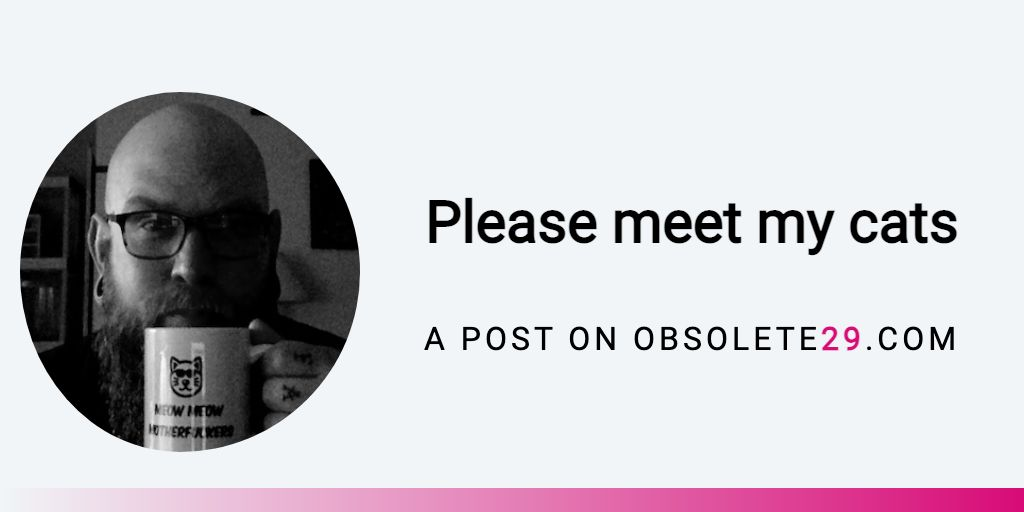
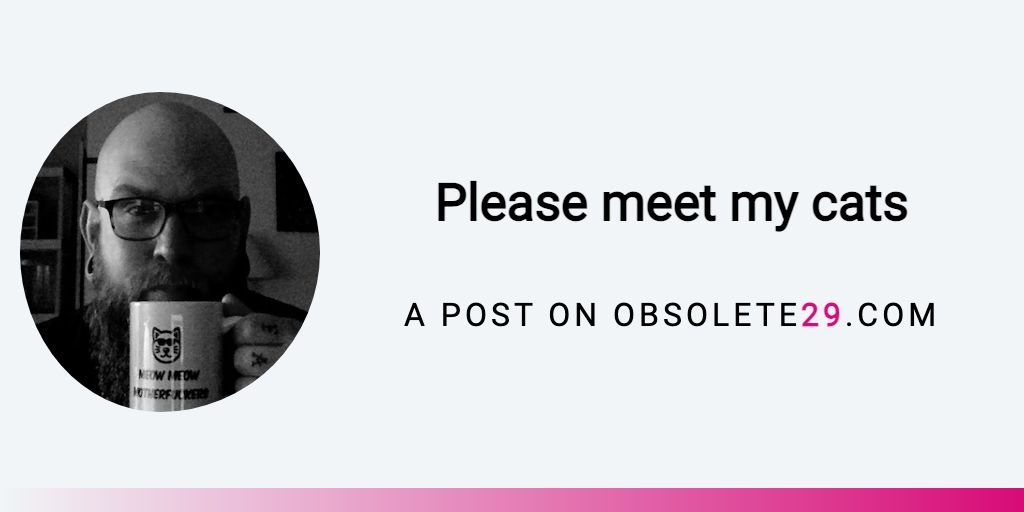
Reduce image and h1 for twitter og card

Changed region(s): [[0.0, 0.1562, 0.9375, 0.9062], [0.4062, 0.3438, 0.9375, 0.5]]

diff --git a/posts/hello-world/og-image/index.html b/posts/hello-world/og-image/index.html
@@ -69,8 +69,12 @@
         }
 
         @media (max-width: 512px) {
+            .profile-image {
+                width: 160px;
+                height: 160px;
+            }
             h1 {
-                font-size: 1.8em;
+                font-size: 1.6em;
             }
 
             .page-stripe {

diff --git a/posts/learning-web-dev/og-image/index.html b/posts/learning-web-dev/og-image/index.html
@@ -69,8 +69,12 @@
         }
 
         @media (max-width: 512px) {
+            .profile-image {
+                width: 160px;
+                height: 160px;
+            }
             h1 {
-                font-size: 1.8em;
+                font-size: 1.6em;
             }
 
             .page-stripe {

diff --git a/posts/lessons-learned-from-bridgestone/og-image/index.html b/posts/lessons-learned-from-bridgestone/og-image/index.html
@@ -69,8 +69,12 @@
         }
 
         @media (max-width: 512px) {
+            .profile-image {
+                width: 160px;
+                height: 160px;
+            }
             h1 {
-                font-size: 1.8em;
+                font-size: 1.6em;
             }
 
             .page-stripe {

diff --git a/posts/please-meet-my-cats/og-image/index.html b/posts/please-meet-my-cats/og-image/index.html
@@ -69,8 +69,12 @@
         }
 
         @media (max-width: 512px) {
+            .profile-image {
+                width: 160px;
+                height: 160px;
+            }
             h1 {
-                font-size: 1.8em;
+                font-size: 1.6em;
             }
 
             .page-stripe {
